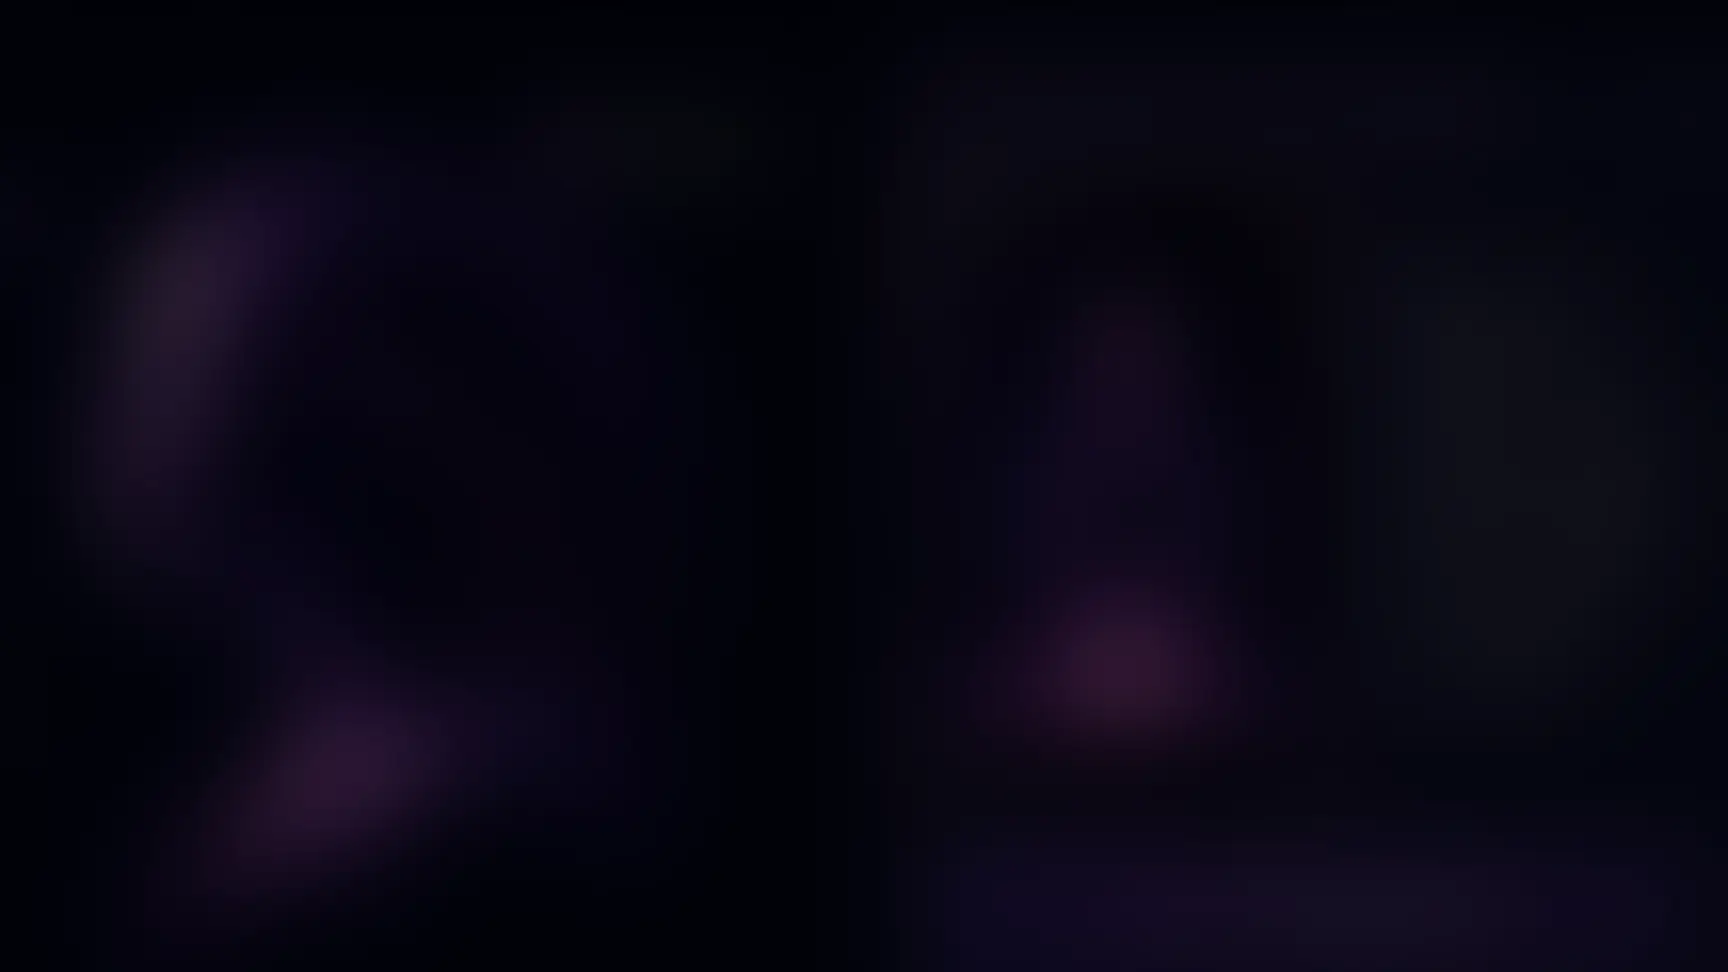
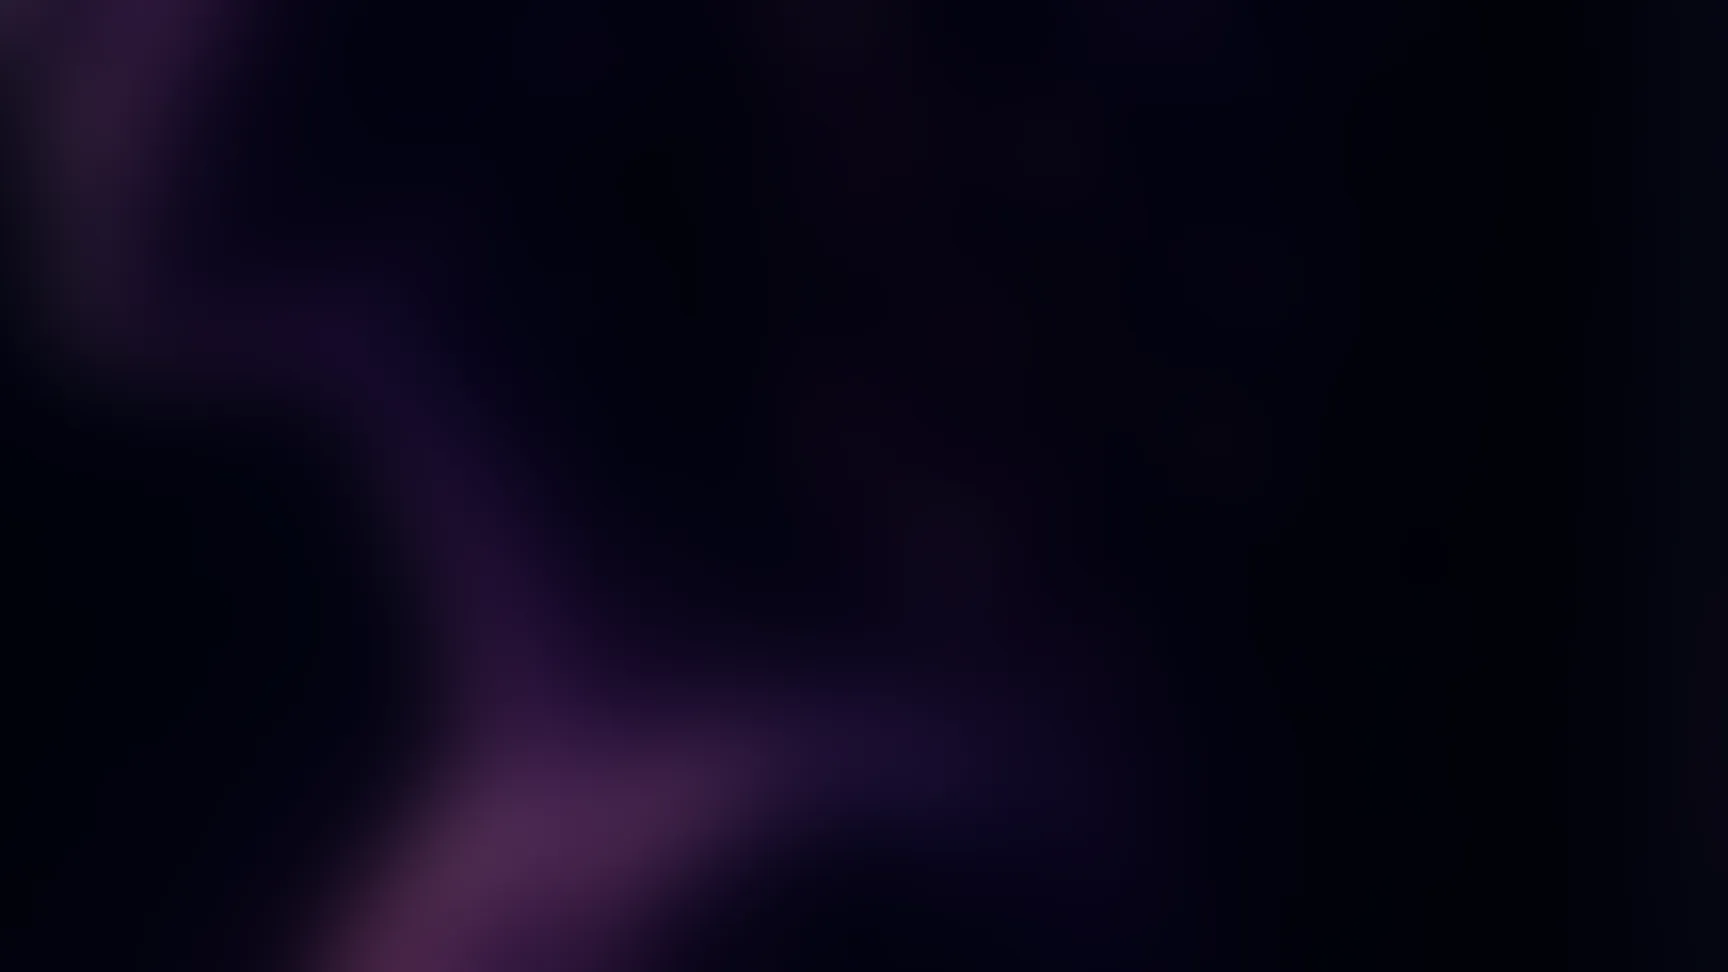
Scenery Parity Pass Phases 5-6: growth card watermarks + utility bg swap
Phase 5 (user's direct choice): Core Pillars/Emotional Landscape get a
giant low-opacity icon watermark plus a "Coming soon" badge - abstract
enough not to be mistaken for real computed data, keeping their existing
honest-empty-state copy intact.

Phase 6 (user's direct choice): regenerated the one shared
backgrounds/utility-bg.webp (10 consumers - Login/Signup/Terms/Consent/
Account/Pricing/Rooms/error/forgot-password) from companion-hero.webp
instead of touching each page.

This completes the Scenery Parity Pass 6-phase plan.

diff --git a/apps/web/src/app/(app)/growth/page.tsx b/apps/web/src/app/(app)/growth/page.tsx
@@ -243,26 +243,45 @@ function GrowthTrackerContent() {
             )}
 
             {/* Core Pillars / Emotional Landscape — deliberate honest empty
-                states, see this file's own doc comment above. Not built
-                as real widgets because nothing in this codebase computes
-                either concept yet. */}
+                states, see this file's own doc comment above. Not built as
+                real widgets because nothing in this codebase computes
+                either concept yet. Scenery Parity Pass Phase 5 (per the
+                user's direct choice, AskUserQuestion): each card gets one
+                giant, very-low-opacity outline of its own already-present
+                icon as a background watermark — decorative only, deliberately
+                too abstract to be mistaken for a real chart/score, unlike
+                photographic or data-shaped art would be. A "Coming soon"
+                badge makes the placeholder status explicit at a glance too,
+                not just in the paragraph text. */}
             <div className="grid sm:grid-cols-2 gap-4 lg:gap-6">
-              <Card className="opacity-80">
-                <div className="flex items-center gap-2 mb-2">
-                  <Layers className="w-4 h-4 text-[var(--color-text-tertiary)]" />
-                  <p className="text-sm text-white">Core Pillars</p>
+              <Card className="relative overflow-hidden opacity-80">
+                <Layers className="absolute -right-4 -bottom-4 w-28 h-28 text-white/[0.04] pointer-events-none" />
+                <div className="relative flex items-center justify-between gap-2 mb-2">
+                  <div className="flex items-center gap-2">
+                    <Layers className="w-4 h-4 text-[var(--color-text-tertiary)]" />
+                    <p className="text-sm text-white">Core Pillars</p>
+                  </div>
+                  <span className="text-[10px] uppercase tracking-wide text-[var(--color-text-tertiary)] border border-[var(--color-border-glass)] rounded-full px-2 py-0.5 shrink-0">
+                    Coming soon
+                  </span>
                 </div>
-                <p className="text-xs text-[var(--color-text-tertiary)] leading-relaxed">
+                <p className="relative text-xs text-[var(--color-text-tertiary)] leading-relaxed">
                   Needs more real usage data before DPNR can compute a meaningful pillar-alignment
                   score. Not built yet — this is an honest gap, not a bug.
                 </p>
               </Card>
-              <Card className="opacity-80">
-                <div className="flex items-center gap-2 mb-2">
-                  <Waves className="w-4 h-4 text-[var(--color-text-tertiary)]" />
-                  <p className="text-sm text-white">Emotional Landscape</p>
+              <Card className="relative overflow-hidden opacity-80">
+                <Waves className="absolute -right-4 -bottom-4 w-28 h-28 text-white/[0.04] pointer-events-none" />
+                <div className="relative flex items-center justify-between gap-2 mb-2">
+                  <div className="flex items-center gap-2">
+                    <Waves className="w-4 h-4 text-[var(--color-text-tertiary)]" />
+                    <p className="text-sm text-white">Emotional Landscape</p>
+                  </div>
+                  <span className="text-[10px] uppercase tracking-wide text-[var(--color-text-tertiary)] border border-[var(--color-border-glass)] rounded-full px-2 py-0.5 shrink-0">
+                    Coming soon
+                  </span>
                 </div>
-                <p className="text-xs text-[var(--color-text-tertiary)] leading-relaxed">
+                <p className="relative text-xs text-[var(--color-text-tertiary)] leading-relaxed">
                   Needs a real emotion/sentiment-tracking model behind it, which doesn&apos;t exist
                   yet. Not built yet — this is an honest gap, not a bug.
                 </p>

diff --git a/docs/AGENT_LOG.md b/docs/AGENT_LOG.md
@@ -8,7 +8,7 @@ This project has **no human development team**. It is built entirely by Claude C
 
 > You're picking up work on DPNR (`C:\Users\rekkawi\decision-room`), a personal-development product built entirely by Claude Code agents — no human dev team, real engineering discipline expected anyway. Before doing anything else, read `docs/AGENT_LOG.md` in full, then `docs/MVP_ARCHITECTURE.md`, then `docs/adr/`, then `docs/PHASE_AUDIT.md`, then `docs/INTELLIGENCE_SPEC_AUDIT.md` (new as of Session 29 — compares the new `docs/DPNR_operating_spec_principles.pdf` intelligence spec against the live codebase; that PDF now ranks above `MVP_ARCHITECTURE.md` in doc authority) — don't relitigate a settled ADR.
 >
-> **Status (Session 42 — read this first): landing page (`/`) redesigned and committed. Then the user approved implementing the published "Scenery Parity Pass" Artifact's 6-phase plan, one phase at a time, pausing to document each — Phases 1-4 are now done and committed; Phases 5 and 6 are both genuinely blocked on a product decision, not code work (see "Next Agent — Start Here" below for exactly what to ask).** Two of the four built phases (3 and 4) turned out different than the artifact originally proposed once the real source was actually read — a real lesson worth internalizing: the artifact was written from screenshot/visual comparison, not a source-code audit, so treat its per-phase proposals as a starting hypothesis to verify against the real files, not a spec to build blind.
+> **Status (Session 42 — read this first): landing page (`/`) redesigned and committed, then the published "Scenery Parity Pass" Artifact's full 6-phase plan was implemented, phase by phase, and is now completely done — all 6 phases built or correctly resolved as a no-op, all committed, nothing left queued from it.** Two of the six phases (3 and 4) turned out different than the artifact originally proposed once the real source was actually read — a real lesson worth internalizing: the artifact was written from screenshot/visual comparison, not a source-code audit, so treat any future artifact like it as a starting hypothesis to verify against the real files, not a spec to build blind. Phases 5 and 6 both genuinely needed a product decision before building — asked the user directly (`AskUserQuestion`) rather than guessing, then built both per their answers.
 >
 > **New technical debt this session — OAuth has no real return/callback URL wired up yet, and the one file that already sits at that URL is stale.** The landing page's Google/Apple buttons are visual-only placeholders (`apps/web/src/app/page.tsx`) — real federation needs, in order: (1) a Google Cloud OAuth client (external, the user creates this, not Claude), (2) a Cognito Hosted UI domain (`userPool.addDomain(...)` — doesn't exist yet in `auth-stack.ts`), (3) a `UserPoolIdentityProviderGoogle` construct wired to that client's credentials, (4) an `oAuth: { callbackUrls: [...], logoutUrls: [...] }` block added to the `WebClient` app client (currently SRP-only — no OAuth config of any kind today), and (5) a real callback route for the redirect to land on. That last piece **already has a file sitting at the expected URL** — `apps/web/src/app/auth/callback/route.ts` — but it's 100% stale pre-Cognito-migration Supabase code (imports `@/lib/supabase/server`, writes to a `user_profiles` table that predates the DynamoDB single-table model) and needs a full rewrite for Cognito's authorization-code exchange, not a reuse. Nothing currently links to it (the disabled buttons don't navigate anywhere), so it's dormant, not actively broken — but don't assume it's ready the next time real OAuth work starts.
 >
@@ -336,16 +336,17 @@ This project has **no human development team**. It is built entirely by Claude C
 - ✅ **Phase 2 done, committed, live-verified**: Dashboard's non-`daily_card` continuity-cue card now shows art too. See Session History below.
 - ✅ **Phase 3 done, committed, partly live-verified — but built differently than originally scoped, read this before assuming otherwise.** The artifact's own Phase 3 proposal ("Getting Unstuck"/"Gentle Healing"/"Understanding Your Reactions" subsections) turned out, on actually reading `library/page.tsx`, to not correspond to any real grouping this app has — the real taxonomy is exactly 4 categories (`Patterns & Beliefs`/`Inner World`/`Values & Needs`/`Direction & Creation`), all already icon-illustrated. Building the reference's 3 named subsections would mean inventing a categorization scheme the backend doesn't have, which is exactly the kind of fabrication this project has repeatedly declined to do elsewhere (see `MirrorRoomLanding.tsx`'s own doc comment on the 3-entry-mode buttons it deliberately didn't build). **Built the honest version instead**: "Recommended for You" cards were real (backed by `GET /v1/library/recommendations`) but had zero art at all — now reuse the exact same per-category icon convention the section below already uses, keyed off each recommendation's own real `taxonomyCategory`.
 - ✅ **Phase 4: no build needed, confirmed already done.** Read `evolution-map/page.tsx` + `components/shared/domain-meta.ts` before building anything — every Life Domains row already renders a real per-domain lucide icon (`DOMAIN_META[d.domain].icon`) inside a colored `ProgressRing`, shared with Growth Tracker so the two pages can't drift apart on which icon/color means which domain. Live-confirmed: "Relationships" renders a violet ring with a Users icon. The artifact's Phase 4 proposal was written from a screenshot comparison without checking this file first — same class of miss as Phase 3.
-- ⬜ **Phase 5: correctly not built — checked source before touching it.** `growth/page.tsx:245-270`: Core Pillars and Emotional Landscape are **deliberate, already-documented honest-empty-state cards** ("Needs more real usage data... Not built yet — this is an honest gap, not a bug" / "Needs a real emotion/sentiment-tracking model... doesn't exist yet"). Adding decorative art to these specific two cards would visually imply more computed sophistication than actually exists — directly conflicts with their own doc comment's intent. **Genuinely needs the user's product call before any build**: leave them plain (current state, recommended), or is there a real waveform/graphic that wouldn't misrepresent "nothing computed here yet"? Values & Needs Snapshot (the third card the artifact named) is real data and already unstyled the same as its siblings — same open question applies to it too, lower stakes since it's real.
-- ⬜ **Phase 6: still the open product question from the original artifact, not yet answered.** Login/Signup/Terms/Consent share one generic `utility-bg.webp` backdrop with no reference page of their own. Options were: leave as-is, or pull a subtler crop from Companion's star-field. Ask the user.
+- ✅ **Phase 5 done, committed, live-verified.** User's direct choice (`AskUserQuestion`): add a subtle, non-misleading visual rather than leave plain. Built: each card (Core Pillars, Emotional Landscape) now has a giant, 4%-opacity outline of its own already-present icon (`Layers`/`Waves`) as a background watermark — deliberately abstract, can't be mistaken for a real chart or score — plus a small "Coming soon" pill next to the title, so the placeholder status is visible at a glance, not just buried in the paragraph text. The existing "honest gap, not a bug" copy is untouched.
+- ✅ **Phase 6 done, committed, live-verified.** User's direct choice: give utility screens a Companion star-field crop. The shared `backgrounds/utility-bg.webp` (10 consumers: Login/Signup/Terms/Consent/Account/Pricing/Rooms/error/forgot-password, all already pointing at this one file) was regenerated from `companion/companion-hero.webp` — no per-page code changes needed. Kept deliberately subtler than the room backgrounds (darken 0.55 vs. 0.62, avg brightness only 11.4→12.3) since this is a shared neutral backdrop for utility/legal screens, not a hero moment.
 
 **Immediate next steps, in priority order**:
-1. **Scenery Parity Pass Phases 1-4 are done; Phases 5 and 6 are both genuinely blocked on a product decision from the user, not code work** — see the phase list above for exactly what to ask. Don't build either without an explicit answer; Phase 5 in particular would conflict with an already-deliberate honest-empty-state design if built as originally scoped.
+1. **The Scenery Parity Pass is now completely done — all 6 phases built or correctly resolved as no-op, all committed.** Nothing queued from it; see Session History for what each phase actually did.
 2. **OAuth has no real return/callback URL wired up** (Session 42 finding — see "Status" above for the full 5-piece checklist). Needs a Google Cloud OAuth client from the user before any of it can be built; `apps/web/src/app/auth/callback/route.ts` exists but is stale pre-Cognito Supabase code, not reusable as-is.
 3. **The sign-in email case-sensitivity bug is still not fixed** (`apps/web/src/lib/cognito/client.ts`'s `signIn()` — no `.toLowerCase()` before calling Cognito). Found live in Sessions 40 and 41, still open.
 4. **Login/Signup's missing desktop treatment is still not fixed** — and now that the root landing page has the correct full-bleed-background-as-a-sibling pattern working, Login/Signup can copy that exact structure rather than rediscovering it. Their current bug is worse than a missing `lg:` class: their background `<Image>` is nested *inside* the narrow `max-w-[393px]` div, so the background is clipped too, not just the text.
 5. The remaining ~17 radius-candidate files from Session 41's theme audit — same by-hand judgment as the ones already converted, not a script.
-6. A stray `[error] Failed to load resource: the server responded with a status of 400` was observed in the console on both `/mirror/new` and `/decision/new` this session (Phase 1's own verification) — not investigated, doesn't appear image/layout-related, and didn't block anything visually. Worth a quick look, not urgent.
+6. A stray `[error] Failed to load resource: the server responded with a status of 400` has now been observed in the console on every route checked this entire session (`/mirror/new`, `/decision/new`, `/dashboard`, `/library`, `/growth`, `/terms`) — consistently present regardless of route, so it's likely one global thing (a background poll, an analytics call), not per-page. Still not investigated or blocking anything visually — worth an actual look next session given how consistently it reproduces.
+7. Ask the user which of Session 41's remaining backlog (below) to pick up — nothing scenery-related is left queued.
 
 **What's genuinely still open, unchanged this session** (carried forward from Session 41, from the Reference Parity Audit's own findings, not yet acted on): Dashboard's mobile "My InnerSelf" scroll-cutoff (Session 38 flagged it, Session 39 couldn't reproduce against an empty account — still unresolved either way); Decision Room's "Options Overview" widget (no backend, needs a decision on whether it's worth a new aggregation endpoint); Content & Learning's real content-volume gap (6 topics exist, reference implies 20+, 2 of 6 real taxonomy categories have zero topics — content authoring, not code); Wallet's "Gift & Share Credits" referral system (still fully unbuilt, flagged since Session 27). A handful of cosmetic-only items are listed in the published Reference Parity Audit artifact if you want the full list — ask the user for the link.
 
@@ -500,6 +501,15 @@ From there, wrote and got approval for a 6-slice plan, `C:\Users\rekkawi\.claude
 ---
 
 ## Session History
+
+### 2026-09-09 — Session 42, part 6: Scenery Parity Pass Phases 5-6, resolved with the user's direct answers — the plan is now fully complete
+- Direct continuation: asked the user both open questions from part 5 via `AskUserQuestion` rather than guessing or defaulting to "leave as-is" on either.
+- **Phase 5 — user chose "add a subtle, non-misleading visual"**, not the safer "leave plain" default. Built: `growth/page.tsx`'s Core Pillars and Emotional Landscape cards each gained a giant (`w-28 h-28`), 4%-opacity outline of their own already-present icon (`Layers`/`Waves`) as a background watermark — deliberately abstract enough that it can't read as a real chart or computed score, unlike photographic or data-shaped art would — plus a small "Coming soon" pill next to the title so the placeholder status is visible at a glance, not only in the paragraph text below it. The existing "honest gap, not a bug" copy is untouched. Live-verified: both watermark icons and both badges confirmed present and correctly classed via direct DOM query (a screenshot at this opacity level is too compressed to show 4%-opacity white on near-black reliably, so DOM inspection was the real check, not the screenshot).
+- **Phase 6 — user chose "give them a Companion star-field crop."** Regenerated the one shared `backgrounds/utility-bg.webp` (confirmed via grep: 10 real consumers — Login, Signup, Terms, Consent, Account, Pricing, Rooms, `error.tsx`, forgot-password — all already pointing at this single file, so no per-page code changes were needed at all) from `companion/companion-hero.webp`, same technique as Phase 1 but kept deliberately subtler (darken 0.55 vs. Phase 1's 0.62; avg brightness only moved 11.4→12.3) since this is a shared neutral backdrop for utility/legal screens, not a hero moment. Live-verified on `/terms`: the real image now loads from the regenerated file (confirmed via `naturalWidth`/`complete`), a soft violet wash is visible behind the heading.
+- `tsc --noEmit` and `eslint` both clean across every file this whole plan touched (checked fresh this part, not just per-phase).
+- **With this, the Scenery Parity Pass (published as a claude.ai Artifact, "Scenery Parity Pass") is fully implemented — all 6 phases, no remaining scenery work queued.**
+- No ADR — both decisions were made by the user directly via `AskUserQuestion`, not inferred or unilaterally decided.
+- Did not touch: anything outside the two named files (`growth/page.tsx`, `backgrounds/utility-bg.webp`).
 
 ### 2026-09-09 — Session 42, part 5: Scenery Parity Pass Phases 4-6 (no code — Phase 4 already done, Phases 5/6 genuinely need a product decision first)
 - **Phase 4** (My Evolution Map life-domain icons): read `evolution-map/page.tsx` + `components/shared/domain-meta.ts` before building — the Life Domains list already renders a real per-domain lucide icon (`DOMAIN_META[d.domain].icon`) inside a colored `ProgressRing`, shared with Growth Tracker. Live-confirmed ("Relationships" → violet ring + Users icon). No code change; the artifact's proposal was written from a screenshot, same miss as Phase 3.
